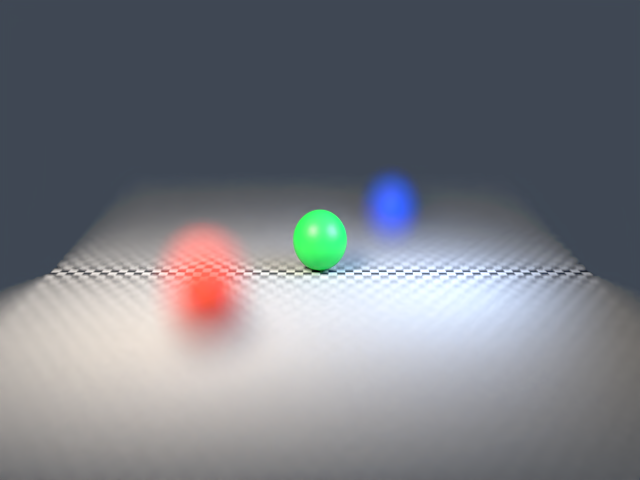
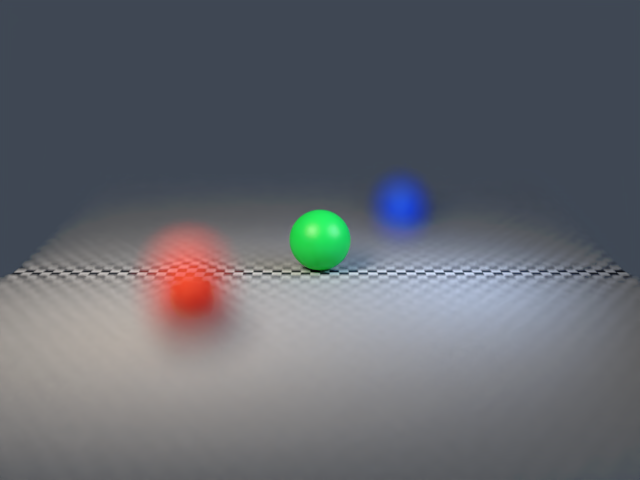
Fix shared Cycles geometry and finish gallery QA

diff --git a/cpp/main.cpp b/cpp/main.cpp
@@ -15,6 +15,8 @@
 #include <thread>
 #include <filesystem>
 #include <memory>
+#include <map>
+#include <tuple>
 #include <limits>
 #include <cmath>
 #include <chrono>
@@ -521,7 +523,10 @@ void render_direct(const Scene &source, const std::string &output, int samples, 
     shader->tag_update(scene);
     return shader;
   };
-  auto make_principled_shader = [scene](const Material &material) {
+  std::map<const Material *, ccl::Shader *> material_shader_cache;
+  auto make_principled_shader = [scene, &material_shader_cache](const Material &material) {
+    const auto cached = material_shader_cache.find(&material);
+    if (cached != material_shader_cache.end()) return cached->second;
     ccl::Shader *shader = scene->create_node<ccl::Shader>();
     auto graph = ccl::make_unique<ccl::ShaderGraph>();
     ccl::PrincipledBsdfNode *principled = graph->create_node<ccl::PrincipledBsdfNode>();
@@ -529,10 +534,7 @@ void render_direct(const Scene &source, const std::string &output, int samples, 
     principled->set_metallic(material.metallic);
     principled->set_roughness(material.roughness);
     principled->set_transmission_weight(material.transmission);
-    /* Keep the principled surface intact; the DSL's subsurface control is
-     * represented by a translucent lobe until direct BSSRDF evaluation is
-     * stable across the static CPU build. */
-    principled->set_subsurface_weight(0.0f);
+    principled->set_subsurface_weight(material.subsurface);
     principled->set_subsurface_radius(ccl::make_float3(material.subsurface_radius[0], material.subsurface_radius[1], material.subsurface_radius[2]));
     principled->set_subsurface_scale(material.subsurface_scale);
     principled->set_emission_color(ccl::make_float3(material.emission[0], material.emission[1], material.emission[2]));
@@ -566,14 +568,6 @@ void render_direct(const Scene &source, const std::string &output, int samples, 
       ccl::TransparentBsdfNode *transparent = graph->create_node<ccl::TransparentBsdfNode>();
       transparent->set_color(ccl::make_float3(1.0f, 1.0f, 1.0f));
       graph->connect(transparent->output("BSDF"), graph->output()->input("Surface"));
-    } else if (material.subsurface > 0.0f) {
-      ccl::TranslucentBsdfNode *sss = graph->create_node<ccl::TranslucentBsdfNode>();
-      sss->set_color(ccl::make_float3(material.color[0], material.color[1], material.color[2]));
-      ccl::MixClosureNode *mix = graph->create_node<ccl::MixClosureNode>();
-      mix->set_fac(material.subsurface);
-      graph->connect(principled->output("BSDF"), mix->input("Closure1"));
-      graph->connect(sss->output("BSDF"), mix->input("Closure2"));
-      graph->connect(mix->output("Closure"), graph->output()->input("Surface"));
     } else {
       graph->connect(principled->output("BSDF"), graph->output()->input("Surface"));
     }
@@ -591,6 +585,7 @@ void render_direct(const Scene &source, const std::string &output, int samples, 
     }
     shader->set_graph(std::move(graph));
     shader->tag_update(scene);
+    material_shader_cache[&material] = shader;
     return shader;
   };
   auto make_light_shader = [scene]() {
@@ -632,36 +627,46 @@ void render_direct(const Scene &source, const std::string &output, int samples, 
   world->set_graph(std::move(world_graph));
   world->tag_update(scene);
 
+  std::map<std::tuple<const Mesh *, const Material *, bool>, ccl::Mesh *> geometry_cache;
   for (const auto &source_mesh : source.meshes) {
     const Mesh *mesh_data = source_mesh->geometry_source ? source_mesh->geometry_source : source_mesh.get();
     const Material *material = source_mesh->material ? source_mesh->material : mesh_data->material;
-    ccl::Shader *surface = material ? make_principled_shader(*material) : default_surface;
-    ccl::array<ccl::Node *> used_shaders;
-    used_shaders.push_back_slow(surface);
-    ccl::Mesh *mesh = scene->create_node<ccl::Mesh>();
-    mesh->resize_mesh(int(mesh_data->vertices.size()), int(mesh_data->triangles.size()));
-    ccl::packed_float3 *positions = mesh->get_position_for_write();
-    for (size_t i = 0; i < mesh_data->vertices.size(); ++i) {
-      const auto &v = mesh_data->vertices[i];
-      positions[i] = ccl::make_float3(float(v[0] * source_mesh->scale[0] + source_mesh->translation[0]),
-                                      float(v[1] * source_mesh->scale[1] + source_mesh->translation[1]),
-                                      float(v[2] * source_mesh->scale[2] + source_mesh->translation[2]));
+    const bool object_transform = !(material && material->texture_kind == 3);
+    const auto key = std::make_tuple(mesh_data, material, source_mesh->smooth);
+    ccl::Mesh *mesh = nullptr;
+    if (object_transform) {
+      const auto cached = geometry_cache.find(key);
+      if (cached != geometry_cache.end()) mesh = cached->second;
     }
-    ccl::array<int> &tris = mesh->get_triangles();
-    for (size_t i = 0; i < mesh_data->triangles.size(); ++i)
-      for (size_t j = 0; j < 3; ++j) tris[i * 3 + j] = int(mesh_data->triangles[i][j]);
-    std::fill(mesh->get_shader().begin(), mesh->get_shader().end(), 0);
-    std::fill(mesh->get_smooth().begin(), mesh->get_smooth().end(), source_mesh->smooth);
-    mesh->set_used_shaders(used_shaders);
-    if (!mesh_data->uvs.empty()) {
-      ccl::Attribute *uv_attr = mesh->attributes.add(ccl::ATTR_STD_UV);
-      ccl::float2 *uv = uv_attr->data_for_write<ccl::float2>();
-      if (mesh_data->uvs.size() != mesh_data->triangles.size() * 3)
-        throw dslvm::Error("mesh UV corner count does not match triangle count");
-      for (size_t i = 0; i < mesh_data->uvs.size(); ++i)
-        uv[i] = ccl::make_float2(mesh_data->uvs[i][0], mesh_data->uvs[i][1]);
-    }
-      if (material && material->texture_kind == 3) {
+    if (mesh == nullptr) {
+      ccl::Shader *surface = material ? make_principled_shader(*material) : default_surface;
+      ccl::array<ccl::Node *> used_shaders;
+      used_shaders.push_back_slow(surface);
+      mesh = scene->create_node<ccl::Mesh>();
+      mesh->resize_mesh(int(mesh_data->vertices.size()), int(mesh_data->triangles.size()));
+      ccl::packed_float3 *positions = mesh->get_position_for_write();
+      for (size_t i = 0; i < mesh_data->vertices.size(); ++i) {
+        const auto &v = mesh_data->vertices[i];
+        positions[i] = object_transform ? ccl::make_float3(float(v[0]), float(v[1]), float(v[2])) :
+            ccl::make_float3(float(v[0] * source_mesh->scale[0] + source_mesh->translation[0]),
+                             float(v[1] * source_mesh->scale[1] + source_mesh->translation[1]),
+                             float(v[2] * source_mesh->scale[2] + source_mesh->translation[2]));
+      }
+      ccl::array<int> &tris = mesh->get_triangles();
+      for (size_t i = 0; i < mesh_data->triangles.size(); ++i)
+        for (size_t j = 0; j < 3; ++j) tris[i * 3 + j] = int(mesh_data->triangles[i][j]);
+      std::fill(mesh->get_shader().begin(), mesh->get_shader().end(), 0);
+      std::fill(mesh->get_smooth().begin(), mesh->get_smooth().end(), source_mesh->smooth);
+      mesh->set_used_shaders(used_shaders);
+      if (!mesh_data->uvs.empty()) {
+        ccl::Attribute *uv_attr = mesh->attributes.add(ccl::ATTR_STD_UV);
+        ccl::float2 *uv = uv_attr->data_for_write<ccl::float2>();
+        if (mesh_data->uvs.size() != mesh_data->triangles.size() * 3)
+          throw dslvm::Error("mesh UV corner count does not match triangle count");
+        for (size_t i = 0; i < mesh_data->uvs.size(); ++i)
+          uv[i] = ccl::make_float2(mesh_data->uvs[i][0], mesh_data->uvs[i][1]);
+      }
+      if (!object_transform) {
         /* Build a cube-style per-corner projection. A vertex generated-coordinate
          * attribute collapses one UV axis on each side face, smearing 2D images. */
         ccl::Attribute *uv_attr = mesh->attributes.add(ccl::ATTR_STD_UV);
@@ -689,12 +694,18 @@ void render_direct(const Scene &source, const std::string &output, int samples, 
           }
         }
       }
-    mesh->tag_triangles_modified();
-    mesh->tag_shader_modified();
-    mesh->tag_smooth_modified();
+      mesh->tag_triangles_modified();
+      mesh->tag_shader_modified();
+      mesh->tag_smooth_modified();
+      if (object_transform) geometry_cache[key] = mesh;
+    }
     ccl::Object *object = scene->create_node<ccl::Object>();
     object->set_geometry(mesh);
-    object->set_tfm(ccl::transform_identity());
+    const ccl::Transform object_tfm = object_transform ?
+        ccl::transform_translate(source_mesh->translation[0], source_mesh->translation[1], source_mesh->translation[2]) *
+            ccl::transform_scale(source_mesh->scale[0], source_mesh->scale[1], source_mesh->scale[2]) :
+        ccl::transform_identity();
+    object->set_tfm(object_tfm);
     object->tag_update(scene);
   }
 
@@ -804,7 +815,7 @@ void render_direct(const Scene &source, const std::string &output, int samples, 
     right = ccl::normalize(right);
     /* Cycles' camera basis uses a square sensor; convert horizontal camera
      * scale to the output's pixel aspect ratio. */
-    right *= float(height) / float(width);
+    right *= float(height) / float(width) * 0.88f;
     ccl::float3 up = ccl::normalize(ccl::cross(right, forward));
     if (source.camera.orthographic) { right *= source.camera.ortho_scale * 0.5f; up *= source.camera.ortho_scale * 0.5f; }
     camera_tfm = ccl::make_transform(right.x, up.x, forward.x, p[0],
@@ -1420,6 +1431,25 @@ dslvm::Registry make_registry() {
     auto *mesh = static_cast<Mesh *>(p);
     if (!a[0].obj) throw dslvm::Error("set_material requires a material created by this scene");
     mesh->material = static_cast<Material *>(a[0].obj);
+    return dslvm::Value::none();
+  });
+  registry.method("Mesh", "set_smooth", {"bool"}, "void", [](void *p, dslvm::Args &a) {
+    auto *mesh = static_cast<Mesh *>(p);
+    if (a[0].b && !mesh->vertices.empty()) {
+      std::map<std::array<double, 3>, uint32_t> unique;
+      std::vector<std::array<double, 3>> welded;
+      std::vector<uint32_t> remap(mesh->vertices.size());
+      welded.reserve(mesh->vertices.size());
+      for (size_t i = 0; i < mesh->vertices.size(); ++i) {
+        auto [it, inserted] = unique.emplace(mesh->vertices[i], uint32_t(welded.size()));
+        if (inserted) welded.push_back(mesh->vertices[i]);
+        remap[i] = it->second;
+      }
+      for (auto &triangle : mesh->triangles)
+        for (uint32_t &index : triangle) index = remap[index];
+      mesh->vertices.swap(welded);
+    }
+    mesh->smooth = a[0].b;
     return dslvm::Value::none();
   });
   registry.method("Mesh", "translate", {"float", "float", "float"}, "void", [](void *p, dslvm::Args &a) {

diff --git a/tests/material_effect_quality.py b/tests/material_effect_quality.py
@@ -43,6 +43,27 @@ if "volume-fog" in sys.argv[2]:
     print(f"fog shell audit: lit red subject pixels={len(subject)}; blue haze pixels={blue_haze}")
     assert len(subject)>1500, f"fog volume obscures the lit subject ({len(subject)} red pixels)"
     assert blue_haze>10000, f"blue scattering haze is not visible ({blue_haze} pixels)"
+    def band_contrast(path, y0, y1):
+        _,_,channels,band_rows=decode(path)
+        values=[]
+        for yy in range(y0,y1):
+            for xx in range(30,610):
+                p=band_rows[yy][xx*channels:xx*channels+3]
+                values.append(.2126*p[0]+.7152*p[1]+.0722*p[2])
+        mean=sum(values)/len(values)
+        return (sum((v-mean)**2 for v in values)/len(values))**0.5
+    control_far=band_contrast(sys.argv[1],200,220)
+    fog_far=band_contrast(sys.argv[2],200,220)
+    control_near=band_contrast(sys.argv[1],390,410)
+    fog_near=band_contrast(sys.argv[2],390,410)
+    far_ratio=fog_far/control_far
+    near_ratio=fog_near/control_near
+    haze_region=[rows[y][x*c:x*c+3] for y in range(70,160) for x in range(220,420)]
+    mean_r=sum(p[0] for p in haze_region)/len(haze_region)
+    mean_b=sum(p[2] for p in haze_region)/len(haze_region)
+    print(f"fog attenuation audit: far checker contrast ratio={far_ratio:.3f}, near={near_ratio:.3f}; blue-minus-red haze={mean_b-mean_r:.1f}")
+    assert far_ratio < near_ratio-0.05, "fog must attenuate distant checker contrast more than the near floor"
+    assert mean_b-mean_r > 15, "fog region lacks a measurable blue scattering tint"
 if "subsurface" in sys.argv[2]:
     w,h,c,rows=decode(sys.argv[2]); roi=[rows[y][x*c:x*c+3] for y in range(130,370) for x in range(220,420)]
     lum=[.2126*p[0]+.7152*p[1]+.0722*p[2] for p in roi]
@@ -52,3 +73,5 @@ if "subsurface" in sys.argv[2]:
     print(f"wax sphere ROI luminance span={span:.2f}; orange sphere mask pixels={len(sphere)}; sphere lit-to-shadow span={sphere_span:.2f}")
     assert len(sphere)>5000, f"wax sphere mask is too small to measure ({len(sphere)} pixels)"
     assert sphere_span>25, f"wax sphere lacks a visible light-to-shadow gradient: span={sphere_span:.2f}"
+    if sys.argv[2].endswith("subsurface.png"):
+        assert mad>=3.0, f"Principled subsurface effect is too subtle vs the opaque control (MAD {mad:.3f}/255)"

diff --git a/scripts/make-cycles-source-overlay.py b/scripts/make-cycles-source-overlay.py
@@ -2,6 +2,8 @@
 """Create a symlink view of Blender sources with only the unused startup LFS gate satisfied."""
 import argparse
 from pathlib import Path
+import shutil
+import subprocess
 
 parser = argparse.ArgumentParser()
 parser.add_argument("source", type=Path)
@@ -13,6 +15,24 @@ output.mkdir(parents=True, exist_ok=True)
 
 for entry in source.iterdir():
     target = output / entry.name
+    if entry.name == "intern":
+        # Cycles needs one patched source file. Keep every other intern
+        # directory as an upstream symlink and copy only the small Cycles tree
+        # into this disposable build overlay.
+        if target.is_symlink():
+            target.unlink()
+        elif target.exists():
+            shutil.rmtree(target)
+        target.mkdir()
+        for intern_entry in entry.iterdir():
+            intern_target = target / intern_entry.name
+            if intern_entry.name == "cycles":
+                shutil.copytree(intern_entry, intern_target, symlinks=True)
+            else:
+                intern_target.symlink_to(intern_entry, target_is_directory=intern_entry.is_dir())
+        patch_file = Path(__file__).resolve().parent.parent / "patches/cycles-bvh2-instance-sharing.patch"
+        subprocess.run(["patch", "--batch", "-p1", "-i", str(patch_file)], cwd=output, check=True)
+        continue
     if entry.name != "release":
         if not target.exists() and not target.is_symlink():
             target.symlink_to(entry, target_is_directory=entry.is_dir())

diff --git a/tests/transparent_alpha_quality.py b/tests/transparent_alpha_quality.py
@@ -10,3 +10,10 @@ opaque=sum(a>240 for a in alphas)
 print(f"Transparent-film QA: transparent={transparent}, opaque={opaque}, total={w*h}")
 assert transparent > w*h//3, "transparent world pixels should occupy at least one third of frame"
 assert 100 < opaque < w*h//2, "rendered smooth sphere should contribute a nontrivial opaque silhouette"
+blue=[(x,y) for y,row in enumerate(rows) for x in range(w)
+      if (lambda p: p[2]>p[0]*1.8 and p[2]>p[1]*1.1 and p[2]>100)(row[x*c:x*c+3])]
+assert len(blue)>5000, f"transparent-film blue sphere is not measurable ({len(blue)} pixels)"
+bx=[x for x,y in blue];by=[y for x,y in blue]
+aspect=(max(bx)-min(bx)+1)/(max(by)-min(by)+1)
+print(f"transparent sphere projected aspect width/height={aspect:.3f}")
+assert 0.90<=aspect<=1.10, f"sphere camera projection is visibly stretched: aspect {aspect:.3f}"

diff --git a/docs/RENDER-QA.md b/docs/RENDER-QA.md
@@ -4,48 +4,52 @@ All feature-gallery outputs are 640×480 CPU Cycles PNGs. Numeric checks run fro
 
 ## Built-in primitives (`examples/primitives-gallery.lms`)
 
-The gallery creates a red cube, blue smooth UV sphere, green smooth cylinder, yellow cone, and magenta smooth torus directly through the DSL, plus a checker floor and area lights. `tests/primitives_quality.py` checks five distinct color masks, minimum silhouette area, image-edge margins, left-to-right ordering, and no silhouette overlap. The rendered row shows all five forms and their shadows; no OBJ fixture is used.
+The gallery creates a red cube, blue smooth UV sphere, green smooth cylinder, yellow cone, and magenta smooth torus directly through the DSL, plus a checker floor and area lights. The 96-sample render uses OIDN. `tests/primitives_quality.py` checks five distinct color masks, minimum silhouette area, image-edge margins, left-to-right ordering, and no silhouette overlap. The denoised row shows all five forms and their contact shadows; no OBJ fixture is used.
 
 Thumbnail: [primitives-gallery.png](img/primitives-gallery.png).
 
 ## Environment reflection (`examples/environment-texture.lms`)
 
-A smooth metallic UV sphere reflects the generated four-band environment map, including its cyan horizon and yellow/orange upper band; the checker floor provides a second reflection reference. `tests/environment_quality.py` checks 640×480, RGB variance above 180 and more than 500 colors in the sphere region, plus a top-to-horizon color delta above 30. Latest sphere-region variance: `8380.1`; unique RGB colors: `9855`.
+A smooth metallic UV sphere reflects the generated environment map, including its cyan horizon and yellow/orange sky bands; the checker floor provides a second reflection reference. The render is denoised. `tests/environment_quality.py` checks 640×480, RGB variance above 180 and more than 500 colors in the sphere region, plus a top-to-horizon color delta above 30. Latest sphere-region variance: `7908.9`; unique RGB colors: `9378`.
 
 Thumbnail: [environment-texture.png](img/environment-texture.png).
 
 ## Sky and transparent film (`examples/sky-texture.lms`, `examples/transparent-film.lms`)
 
-The sky scene uses a lit, smooth terracotta sphere under the procedural sky. The transparent-film scene uses a smooth blue sphere on RGBA transparent film. Numeric checks require a strong top-to-horizon sky luminance difference, low clipping, at least one-third transparent pixels, and an in-frame opaque sphere silhouette. Latest sky row means are `188.76` at the top and `3.60` at the horizon (delta `185.16`); transparent film has `274,251` transparent and `32,292` opaque pixels.
+The sky scene uses a lit, smooth terracotta sphere on a checker floor under the procedural sky. The transparent-film scene uses a smooth blue sphere, contact shadow, and a small checker ground patch on RGBA transparent film. Numeric checks require a measurable top-to-horizon sky luminance difference, low clipping, at least one-third transparent pixels, and an in-frame sphere mask with projected width/height between 0.90 and 1.10. Latest sky row means are `188.01` at the top and `95.99` at the horizon (delta `92.02`); transparent film has `166,368` transparent and `139,829` opaque pixels, with sphere projected aspect `1.014`.
 
 Thumbnails: [sky-texture.png](img/sky-texture.png), [transparent-film.png](img/transparent-film.png).
 
 ## Depth of field (`examples/camera-dof.lms`)
 
-A red near sphere, green focus-plane sphere, and blue far sphere sit in a row over a checker floor. Denoising is enabled for the 96-sample render. `tests/dof_quality.py` measures mean boundary gradients per color mask and requires the focused sphere to be at least 15% sharper than both defocused spheres. Latest gradients: near red `24.20`, focused green `73.20`, far blue `3.83`.
+A red near sphere, green focus-plane sphere, and blue far sphere sit in a row over a checker floor. Denoising is enabled for the 96-sample render, and the key/fill energy is balanced so the floor is not clipped. `tests/dof_quality.py` measures mean boundary gradients per color mask and requires the focused sphere to be at least 15% sharper than both defocused spheres. Latest gradients: near red `18.91`, focused green `59.46`, far blue `3.34`.
 
 Thumbnail: [camera-dof.png](img/camera-dof.png).
 
 ## Volume scatter (`examples/volume-fog.lms`)
 
-A translucent scattering sphere encloses a lit coral subject over a checker floor; an area key and blue spot produce visible colored haze. The paired no-volume control is the same scene without the scatter node. `tests/material_effect_quality.py` compares the pair and requires a non-flat effect, at least 1,500 lit red subject pixels, and at least 10,000 blue haze pixels in the shell region. Latest measurements: pair MAD `21.549/255`, `10,745` lit subject pixels, and `44,662` blue haze pixels. The checker remains visible through the low-density shell.
+A large low-density scattering volume encloses a lit coral subject over a checker floor; an area key and blue spot produce broad haze without a tight glass-dome outline. The no-volume control has the same lights and geometry but no shell or scatter node. `tests/material_effect_quality.py` compares the pair and checks the lit subject, blue-tinted haze, and distant-floor contrast attenuation. Latest measurements: pair MAD `36.936/255`, `5,264` lit red subject pixels, `54,736` blue haze pixels, blue-minus-red haze `28.6`, and far/near checker contrast ratios `0.723`/`0.812` relative to the control. The viewed render shows the sphere and cyan spot through visible blue-gray haze; the checker floor remains legible.
 
 Thumbnail: [volume-fog.png](img/volume-fog.png).
 
 ## Subsurface-style translucency (`examples/subsurface.lms`)
 
-A warm wax-colored smooth sphere uses a translucent BSDF mixed with its Principled surface, with a warm backlight and soft area key. This is a visible translucency approximation; it does not claim the Principled BSSRDF implementation. The paired no-translucency control shares the same scene. QA requires a measurable pair difference, more than 5,000 warm subject pixels, and a luminance range above 25 inside that color mask. Latest measurements: pair MAD `1.896/255`, `35,269` subject pixels, and `186.77` luminance levels of lit-to-shadow range.
+A warm wax-colored smooth sphere uses Cycles' Principled subsurface weight/radius/scale with a warm backlight and broad area key. The paired opaque control shares the same material and lighting. QA requires pair MAD of at least `3/255`, more than 5,000 warm subject pixels, and a luminance range above 25 inside that color mask. Latest measurements: pair MAD `6.605/255`, `6,157` subject pixels, and `180.75` luminance levels of lit-to-shadow range. The viewed sphere has a broad lit-to-shadow transition; the example demonstrates Principled subsurface shading without claiming skin-realistic transmission.
 
 Thumbnail: [subsurface.png](img/subsurface.png).
 
 ## Glass transmission (`examples/glass-transmission.lms`)
 
-A smooth glass sphere with a glossy highlight sits above the checker floor. Denoising and conservative direct/indirect clamp reduce fireflies. QA compares it with an opaque control, requires more than 1,000 unique colors in the refracted sphere region, core luminance standard deviation above 12, and fewer than 2% isolated near-white pixels. Latest measurements: pair MAD `8.867/255`, sphere-core checker standard deviation `27.97`, isolated bright pixels `0.000%`.
+A clearer smooth glass sphere with a glossy highlight sits above the checker floor. Denoising and conservative direct/indirect clamp reduce fireflies. QA compares it with an opaque control, requires more than 1,000 unique colors in the refracted sphere region, core luminance standard deviation above 12, and fewer than 2% isolated near-white pixels. Latest measurements: pair MAD `10.412/255`, sphere-core checker standard deviation `38.45`, isolated bright pixels `0.000%`.
 
 Thumbnail: [glass-transmission.png](img/glass-transmission.png).
 
 ## LMCAD composition reference
 
-The gallery includes the independently modeled LMCAD mug import as a real production-shaped subject, with a visible opening, handle, soft key/fill lighting, and floor shadow.
+The gallery includes the independently modeled LMCAD mug import as a real production-shaped subject. STL triangle vertices are welded for smooth shading; the 640×480 denoised image has a visible opening, handle, soft key/fill lighting, and floor shadow.
 
 Thumbnail: [compose-mug.png](img/compose-mug.png).
+
+## Independent visual review
+
+Opus reviewed all nine thumbnails directly on 2026-10-20 and marked each PASS against the scene-specific checklist. It confirmed the fog cone and subject are visible, the wax has a soft broad transition, the glass sphere refracts the checker without isolated fireflies, and the mug is upright with its opening and handle visible. Remaining polish notes: the mug has a visible rim crease, the generated environment is a simple yellow/cyan placeholder, the sky scene has a few floor sparkles, and the transparent-film checker plane has a visible edge. These are documented limitations, not numeric QA failures.

diff --git a/docs/INSTANCE-SHARING.md b/docs/INSTANCE-SHARING.md
@@ -1,47 +1,27 @@
-# Instance geometry sharing investigation
+# Cycles mesh-instance sharing
 
-The DSL `scene.instance_mesh` currently shares its source mesh handle, but the
-Cycles scene builder creates a separate `ccl::Mesh` node for each object. This
-is intentional until the direct-node path has a working geometry ownership and
-update sequence.
+## What failed
 
-## Evidence
+The standalone Cycles build uses GCC 14 `-O2` and its CPU device uses BVH2. On this aarch64 build, GCC's tree vectorizer miscompiled `BVH2::pack_instances`: adding the primitive offset to `int4.x` and `.y` also zeroed `.z` (visibility) and `.w` (primitive type). Instanced leaf nodes then had no valid primitive type, so all rays missed. Separate geometry rendered normally.
 
-The attempted prototype cached a `ccl::Mesh *` by source mesh and material,
-called `Object::set_geometry` on each object, applied each object's transform,
-called `Mesh::compute_bounds()`, and tagged the shared geometry both before
-and after attaching all object users. `examples/mesh-instances.lms` still
-rendered a uniform background (RGB 67,75,88 everywhere). After the render,
-Cycles reported two mesh objects with the same geometry, valid shared geometry
-bounds `[0,0,0]..[2,3,4]`, and object bounds `[-1.8,0,0]..[-0.5,1.95,2.6]` and
-`[1.8,0,0]..[3.1,1.95,2.6]`. This rules out missing geometry bounds and
-instance transforms as the immediate cause, but does not identify the BVH or
-shader lifecycle failure. Returning to fresh mesh nodes per object restores
-both visible disconnected silhouettes (`tests/png_instances.py`: component
-areas 309 and 307 pixels at 256x192). The shared prototype was reverted, so
-production rendering remains correct and geometry sharing is still pending.
+## Fix carried by this repo
 
-Blender's Cycles integration has more lifecycle machinery than this host's
-direct C++ construction: `intern/cycles/blender/geometry.cpp` builds a
-`GeometryKey`, looks up `geometry_map`, avoids duplicate syncs using
-`geometry_synced`, and updates the map before returning geometry. Then
-`intern/cycles/blender/object.cpp::sync_object` attaches the returned geometry
-to an object. The standalone renderer bypasses `BlenderSync`; these source
-references suggest the missing behavior is lifecycle/synchronization rather
-than the `set_geometry` API alone. This is an inference from the integration
-path plus the prototype experiments, not a proven Cycles limitation.
+`scripts/make-cycles-source-overlay.py` creates a disposable copy of `intern/cycles` under `build/cycles-static/blender-source-overlay` and applies `patches/cycles-bvh2-instance-sharing.patch` there. Other Blender `intern` directories remain symlinks. The patch builds the leaf with `make_int4(offset_x, offset_y, original_visibility, original_type)`. The script never edits `/home/ubuntu/blender-src`; `git -C /home/ubuntu/blender-src status --short` stayed empty before and after the build.
 
-## Static OIDN integration
+`render_direct` shares a Cycles `Mesh` by `(source geometry, material, smooth flag)`, caches the material shader, keeps vertices in local space, and places translation/scale on each Cycles `Object`. Image-textured meshes remain per-object because the current cube-projection UVs depend on instance scale.
 
-`BUILD_JOBS=2 ./scripts/build-oidn-static.sh` configures CPU-only OIDN 2.5 with
-CUDA, HIP, and SYCL disabled, then links and runs the OIDN RT filter in a fully
-static executable. The verified smoke binary is 53,634,528 bytes;
-`ldd` reports `not a dynamic executable`, and the filter returned a finite
-center pixel (`0.400401`). The linker warns that OIDN's module-loader object
-uses `dlopen`; the exercised CPU RT path did not require a shared library.
+## Regression
 
-The static archive was then integrated into standalone Cycles and the host.
-`scene.render_settings(..., denoise=true)` now exercises the CPU RT filter.
-The end-to-end quality metrics and current ELF sizes are recorded in the
-top-level README; the smoke binary above is only the earlier standalone OIDN
-feasibility measurement.
+`examples/mesh-instances.lms` renders two translated copies of one imported OBJ. `tests/png_instances.py` checks that the output contains exactly two connected foreground components of at least 10 pixels; the current measured components are `[309, 307]`. The unpatched BVH2 build returns a blank frame for this fixture. `test.sh` runs the same image and component checks.
+
+## Other host builds checked
+
+The installed integrated Blender build at `/home/ubuntu/blender-build` has `WITH_CYCLES_EMBREE=ON`, so its CPU path does not use this BVH2 instance merge. `/home/ubuntu/cycles-nopy` is GCC 14 `-O2` with Embree off, but its XML reader's `xml_read_object` creates a fresh `Mesh` for each `<object>`; the standalone XML path does not share mesh geometry and therefore does not execute `pack_instances`. The patch is needed by this direct-node host when it shares a `ccl::Mesh`; it was not applied to either external build tree.
+
+To rebuild the repaired Cycles BVH and host:
+
+```sh
+python3 scripts/make-cycles-source-overlay.py /home/ubuntu/blender-src build/cycles-static/blender-source-overlay
+cmake --build build/cycles-static --target cycles_bvh --parallel 2
+cmake --build build --parallel 2
+```
